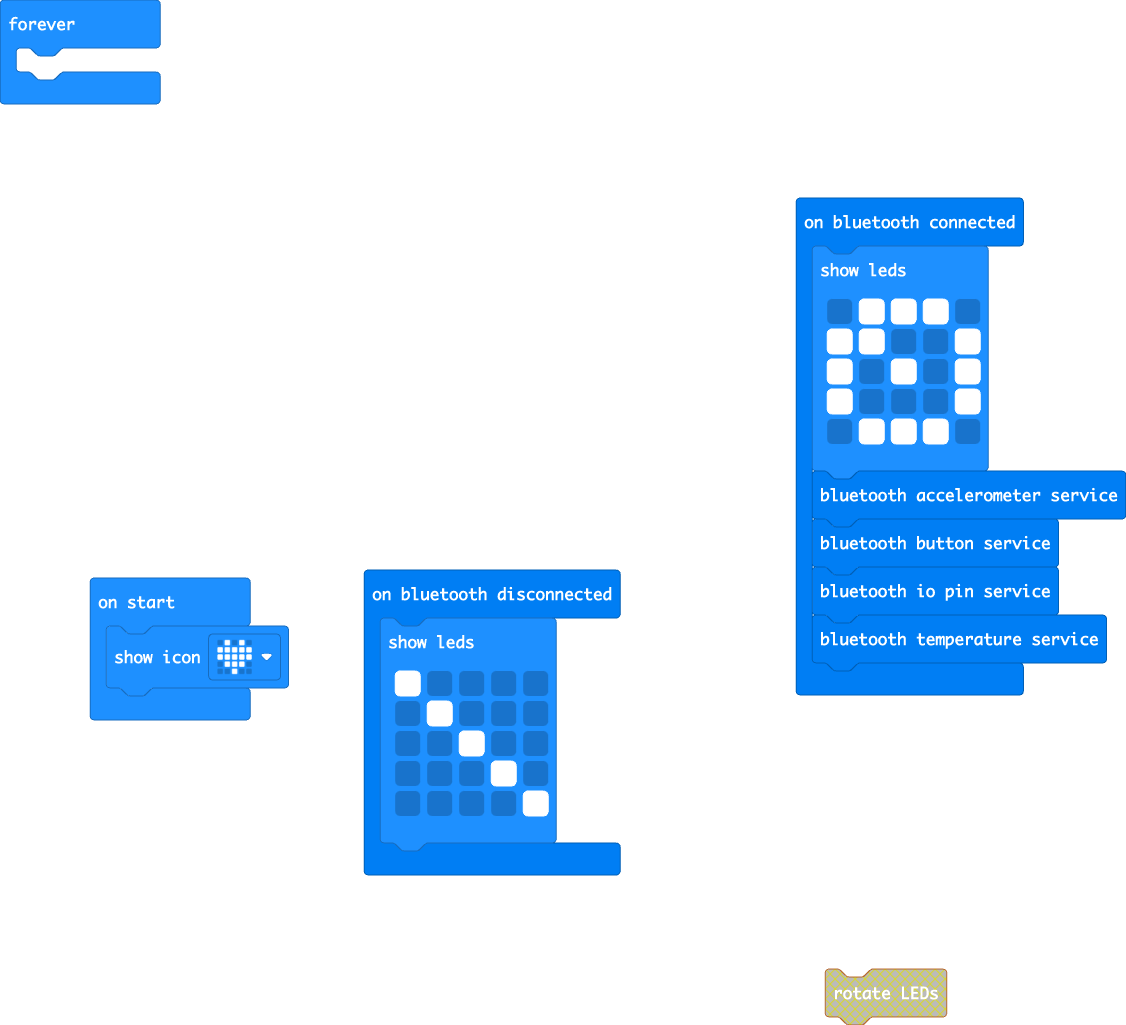
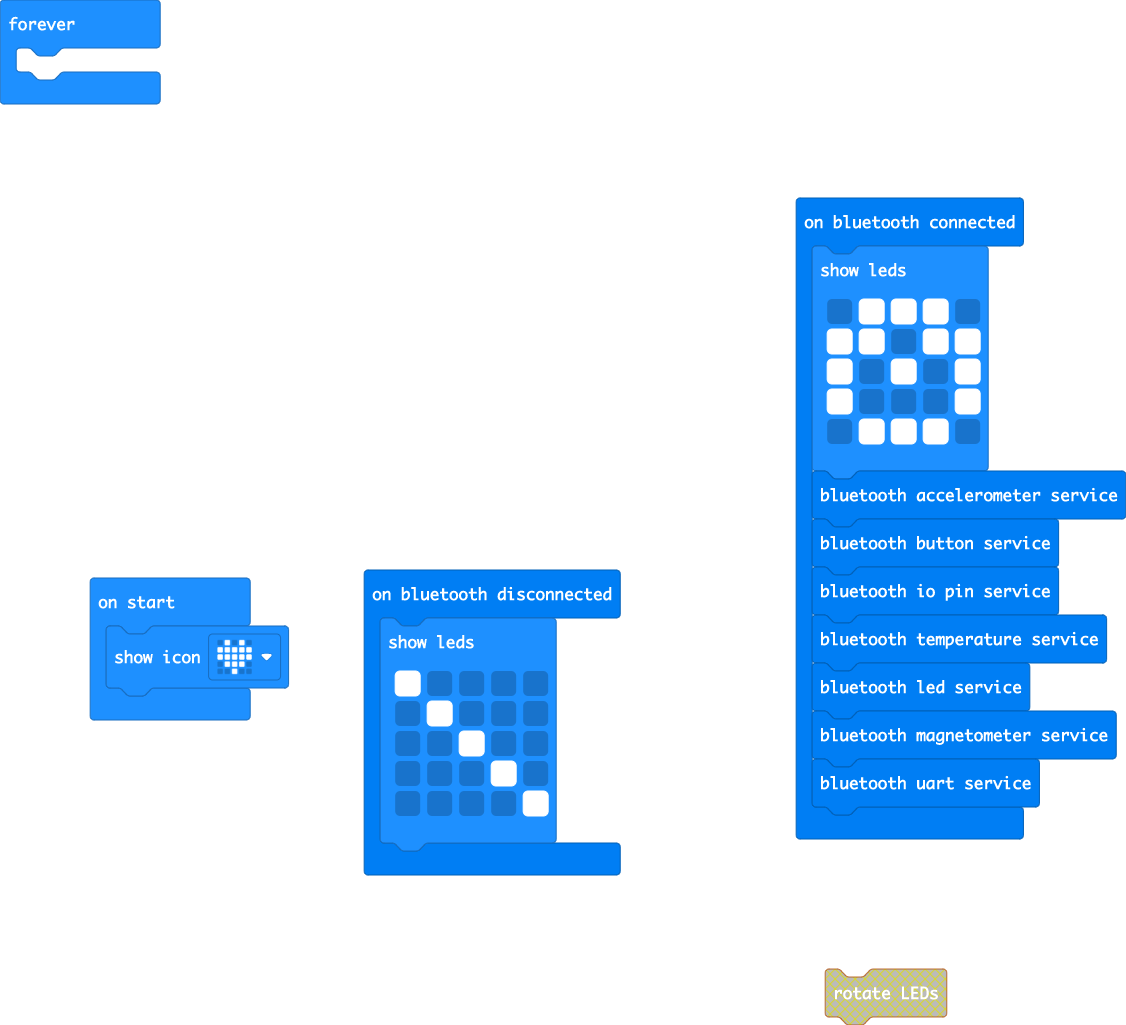
Update main.blocks, main.ts

Changed region(s): [[0.6838, 0.6556, 0.9947, 0.8429], [0.8082, 0.3122, 0.8393, 0.3434]]

diff --git a/main.ts b/main.ts
@@ -1,7 +1,7 @@
 bluetooth.onBluetoothConnected(function () {
     basic.showLeds(`
         . # # # .
-        # # . . #
+        # # . # #
         # . # . #
         # . . . #
         . # # # .
@@ -10,6 +10,9 @@ bluetooth.onBluetoothConnected(function () {
     bluetooth.startButtonService()
     bluetooth.startIOPinService()
     bluetooth.startTemperatureService()
+    bluetooth.startLEDService()
+    bluetooth.startMagnetometerService()
+    bluetooth.startUartService()
 })
 bluetooth.onBluetoothDisconnected(function () {
     basic.showLeds(`
